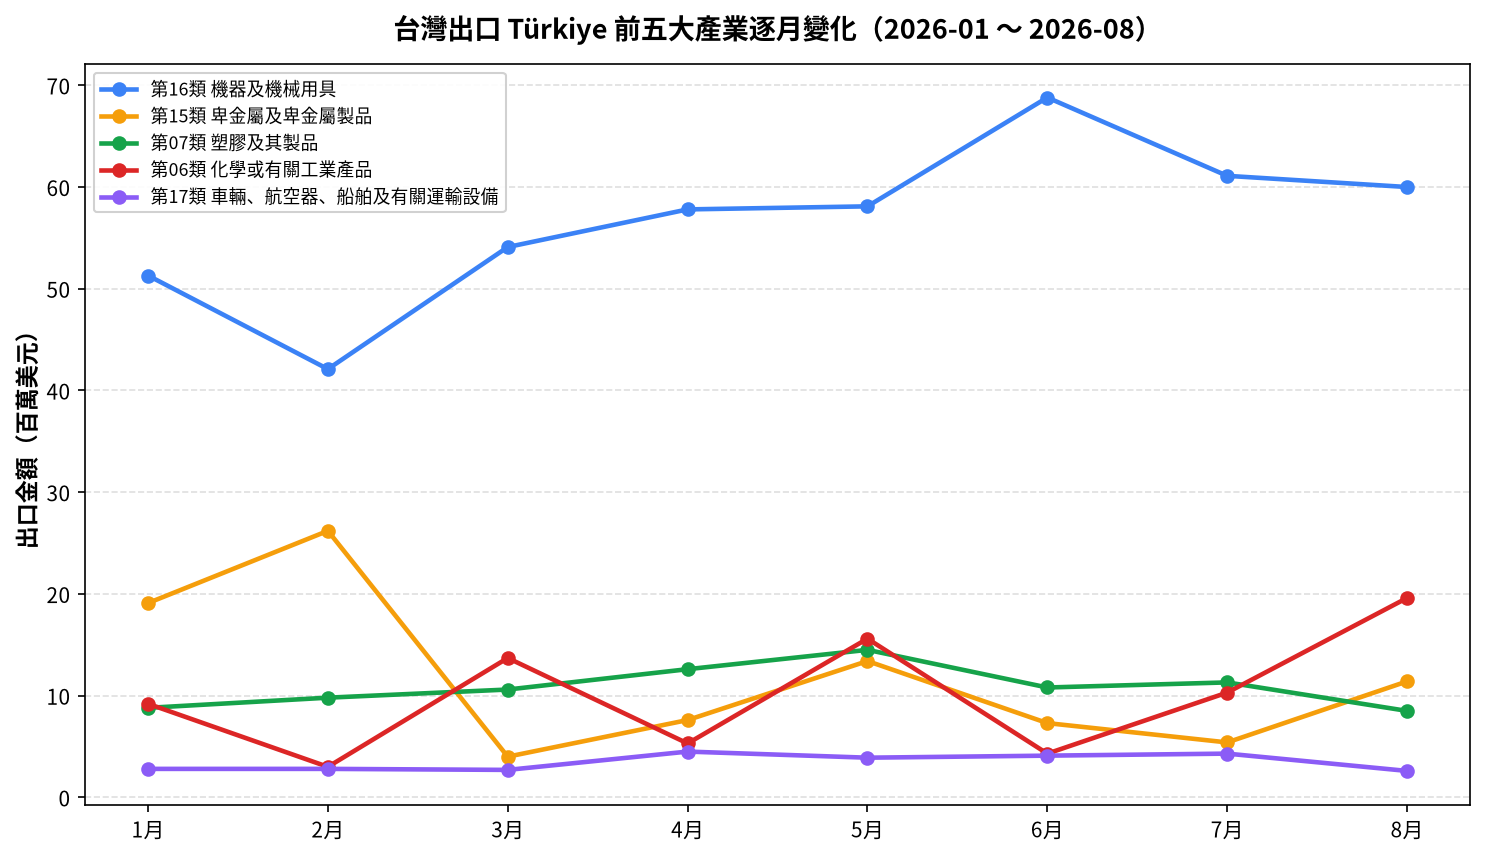
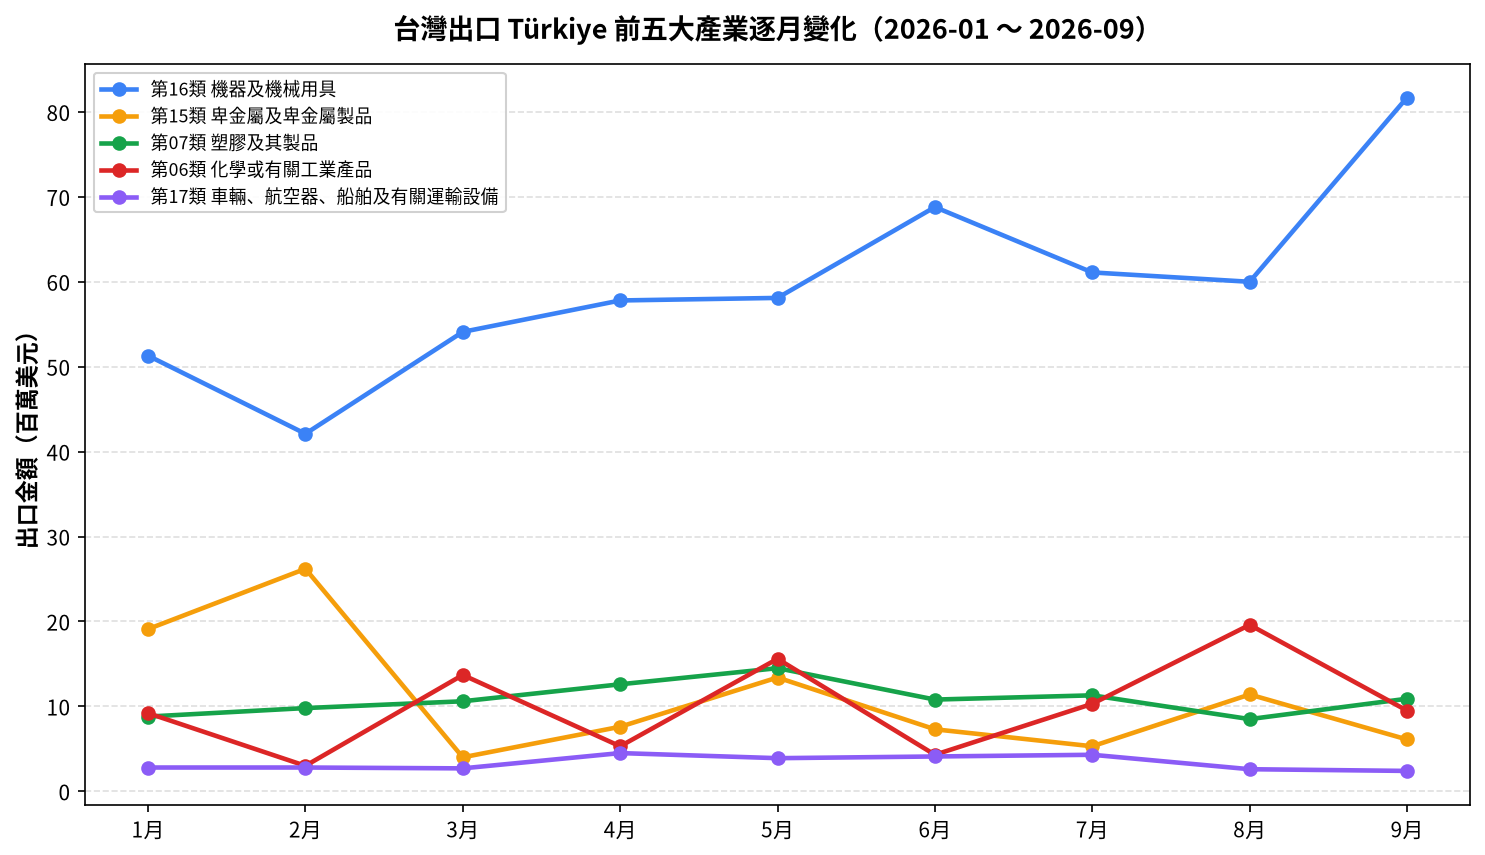
Refresh site from template

diff --git a/docs/index.html b/docs/index.html
@@ -1572,8 +1572,14 @@ height="0" width="0" style="display:none;visibility:hidden"></iframe></noscript>
         <div class="delta">正值＝台灣出超</div>
       </div>
     </div>
-    
-    
+        <div style="margin-top: 1rem; margin-bottom: 0.5rem;">
+      <img src="/news/images/tw-tr-monthly-trend-chart.png" alt="2026年台灣對 Türkiye 逐月貿易走勢圖"
+           style="max-width: 100%; height: auto; display: block; margin: 0 auto;">
+    </div>
+        <div style="margin-top: 1.25rem; margin-bottom: 0.5rem;">
+      <img src="/news/images/tw-tr-annual-chart.png" alt="111年（全年）—114年（全年） 台灣對 Türkiye 貿易走勢圖"
+           style="max-width: 100%; height: auto; display: block; margin: 0 auto;">
+    </div>
         <p class="grp-note" style="margin-top:1.1rem; margin-bottom:0.4rem; font-weight:600;">
       台灣出口 Türkiye 前五大產業（115年1-9月（初步值））</p>
     <div class="table-wrapper">
@@ -1629,7 +1635,10 @@ height="0" width="0" style="display:none;visibility:hidden"></iframe></noscript>
       </table>
     </div>
     
-    
+        <div style="margin-top: 1rem; margin-bottom: 0.5rem;">
+      <img src="/news/images/tw-tr-monthly-top5-chart.png" alt="台灣出口 Türkiye 前五大產業逐月變化"
+           style="max-width: 100%; height: auto; display: block; margin: 0 auto;">
+    </div>
     <p class="grp-note">資料來源：財政部關務署 統計資料庫查詢系統（人工每月查詢輸入，非自動抓取）　·　
       <a href="https://portal.sw.nat.gov.tw/APGA/GA30" target="_blank" rel="noopener noreferrer">
       查看財政部關務署官方查詢系統（可自行查核或查詢更細分類）</a><br>延伸閱讀：<a href="https://www.eximclub.com.tw/innerContent.aspx?Type=Publish&ID=6632&Continen=3&Country=%E5%9C%9F%E8%80%B3%E5%85%B6" target="_blank" rel="noopener noreferrer">《貿易俱樂部》（2026/08/14，中國輸出入銀行貿易俱樂部）</a></p>
